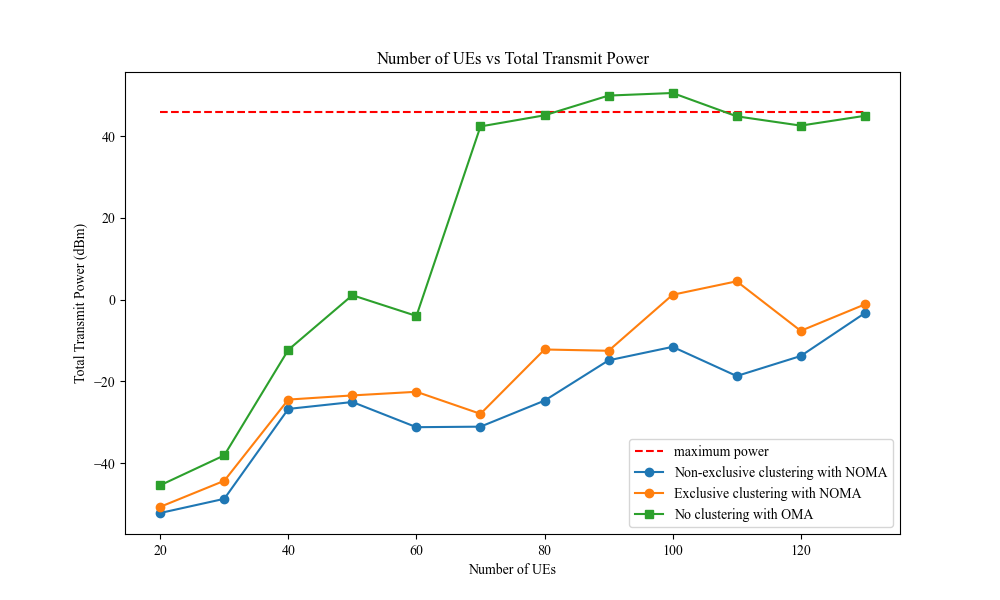
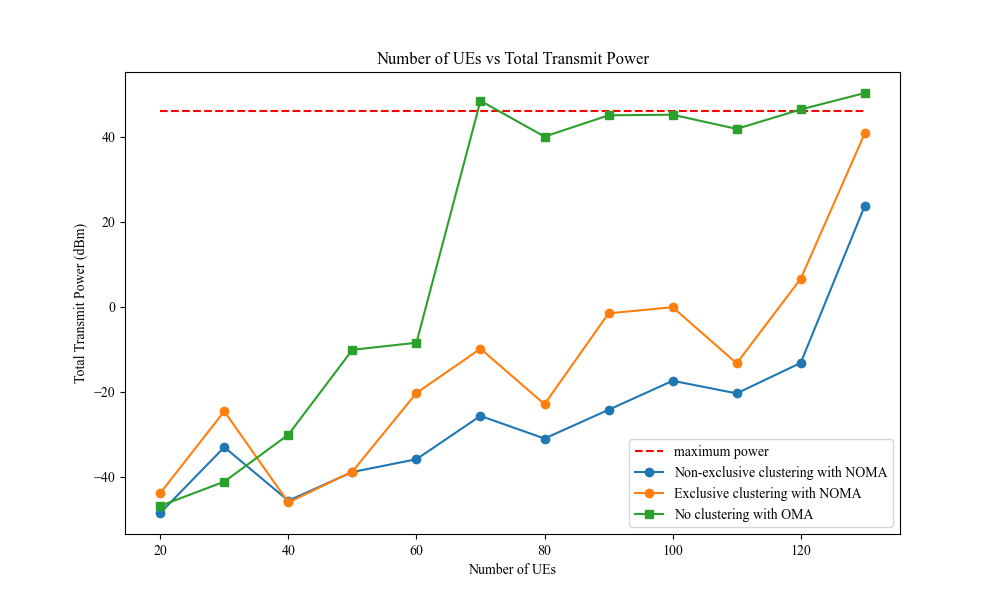
new dev crreated

diff --git a/compare.py b/compare.py
@@ -9,6 +9,7 @@ from inputs import uav
 from inputs import environment_parameters, system_parameters
 from rician_factor import get_rician_factor
 import small_scale_fading as ssf
+from check_noma import check_noma_possible
 
 
 def generate_uniform_points_in_circle(n, r):
@@ -102,6 +103,8 @@ def simulate(H_db, th_data_rate, height):
         H_db, 
         th_data_rate
     )
+    check_noma_possible(power_matrix_NOMA, height=height, no_of_users=no_ues)
+
     total_power_noma = 0
     for i in range(0, no_ues):
         for j in range(0, no_ues):
@@ -109,8 +112,8 @@ def simulate(H_db, th_data_rate, height):
                 (10 ** (power_matrix_NOMA[i][j][0] / 10)) + (10 ** (power_matrix_NOMA[i][j][1] / 10))
             )
     total_power_noma_dbm = 10 * math.log10(total_power_noma)
-    if(total_power_noma_dbm > uav['max_power']):
-        print(f"PowerConstraintError(NOMA): required power {total_power_noma_dbm} dBm > avilable power {uav['max_power']} dBm \nfor\n\t users={no_ues}\n\t height={height} m\n")
+    # if(total_power_noma_dbm > uav['max_power']):
+    #     print(f"PowerConstraintError(NOMA): required power {total_power_noma_dbm} dBm > avilable power {uav['max_power']} dBm \nfor\n\t users={no_ues}\n\t height={height} m\n")
     
     # Calculate power efficiency of NOMA
     ee_noma = 10 * math.log10(sum(th_data_rate) * 1e6/total_power_noma)
@@ -134,8 +137,8 @@ def simulate(H_db, th_data_rate, height):
 
 
     total_power_ex_noma_dbm = 10 * math.log10(total_power_ex_noma)    
-    if(total_power_ex_noma_dbm > uav['max_power']):
-        print(f"PowerConstraintError(ex-NOMA): required power {total_power_ex_noma_dbm} dBm > avilable power {uav['max_power']} dBm \nfor\n\t users={no_ues}\n\t height={height} m\n")
+    # if(total_power_ex_noma_dbm > uav['max_power']):
+    #     print(f"PowerConstraintError(ex-NOMA): required power {total_power_ex_noma_dbm} dBm > avilable power {uav['max_power']} dBm \nfor\n\t users={no_ues}\n\t height={height} m\n")
     
     # Calculate power efficiency of exclusive NOMA
     ee_ex_noma = 10 * math.log10(sum(th_data_rate) * 1e6/total_power_ex_noma)
@@ -154,14 +157,15 @@ def simulate(H_db, th_data_rate, height):
         for i in range(0, no_ues):
             total_power_oma += (10 ** (power_user[i] / 10)) * num_prb_per_user
     total_power_oma_dbm = 10 * math.log10(total_power_oma)
-    if(total_power_oma_dbm > uav['max_power']):
-        print(f"PowerConstraintError(OMA): required power {total_power_oma_dbm} dBm > avilable power {uav['max_power']} dBm \nfor\n\t users={no_ues}\n\t height={height} m\n")
+    # if(total_power_oma_dbm > uav['max_power']):
+    #     print(f"PowerConstraintError(OMA): required power {total_power_oma_dbm} dBm > avilable power {uav['max_power']} dBm \nfor\n\t users={no_ues}\n\t height={height} m\n")
 
     # Calculate power efficiency of OMA
     ee_oma = 10 * math.log10(sum(th_data_rate) * 1e6/total_power_oma)
 
 
     return (total_power_noma_dbm, total_power_oma_dbm, total_power_ex_noma_dbm, ee_noma, ee_oma, ee_ex_noma)
+    # return (power_matrix_NOMA, association_matrix_NOMA)
 
 
 

diff --git a/simu_NOMA.py b/simu_NOMA.py
@@ -29,7 +29,11 @@ def noma_power_opt(PRB, b, sigma, H, R):
         sum_x += x[i]
 
     for i in range(0, n):
-        v[i] = math.ceil(x[i] * 2 * PRB / sum_x)
+        if(i < n/2):
+            v[i] = math.ceil(x[i] * 2 * PRB / sum_x)
+        else:
+            estimate = math.ceil(x[i] * 2 * PRB / sum_x)
+            v[i] = estimate if (R[i]/estimate) >= b else math.floor(R[i]/b)
     
 
     # User Clustering
@@ -56,7 +60,7 @@ def noma_power_opt(PRB, b, sigma, H, R):
         k += 1
         l += 1
 
-
+    
     # Power Allocation
 
     # Power Allocation - first user

diff --git a/test.py b/test.py
@@ -1,0 +1,9 @@
+from compare import generate_user_data, generate_uniform_points_in_circle, simulate
+from inputs import system_parameters
+from check_noma import check_noma_possible
+
+ue_locations = generate_uniform_points_in_circle(8, system_parameters['cell_redius'])
+H_db, th_data_Rate = generate_user_data(8, 10, ue_locations)
+(power ,association) = simulate(H_db, th_data_Rate, 10)
+print(f"{association=}")
+print(f"{power=}")

diff --git a/simu_NOMA_exclusive_clustering.py b/simu_NOMA_exclusive_clustering.py
@@ -31,7 +31,11 @@ def ex_noma_power_opt(PRB, b, sigma, H, R):
         sum_x += x[i]
 
     for i in range(0, n):
-        v[i] = math.ceil(x[i] * 2 * PRB / sum_x)
+        if(i < n/2):
+            v[i] = math.ceil(x[i] * 2 * PRB / sum_x)
+        else:
+            estimate = math.ceil(x[i] * 2 * PRB / sum_x)
+            v[i] = estimate if (R[i]/estimate) >= b else math.floor(R[i]/b)
     
 
     # User Clustering

diff --git a/check_noma.py b/check_noma.py
@@ -1,0 +1,9 @@
+def check_noma_possible(power, height, no_of_users):
+    for i in range(len(power)):
+        for j in range(len(power[i])):
+
+            if power[i][j][1] <= power[i][j][0] and power[i][j][0]!=0:
+                print(f"NOMA not possible for {height=} and {no_of_users=}")
+                return
+    
+    # print(f"NOMA possible for {height=} and {no_of_users=}")
